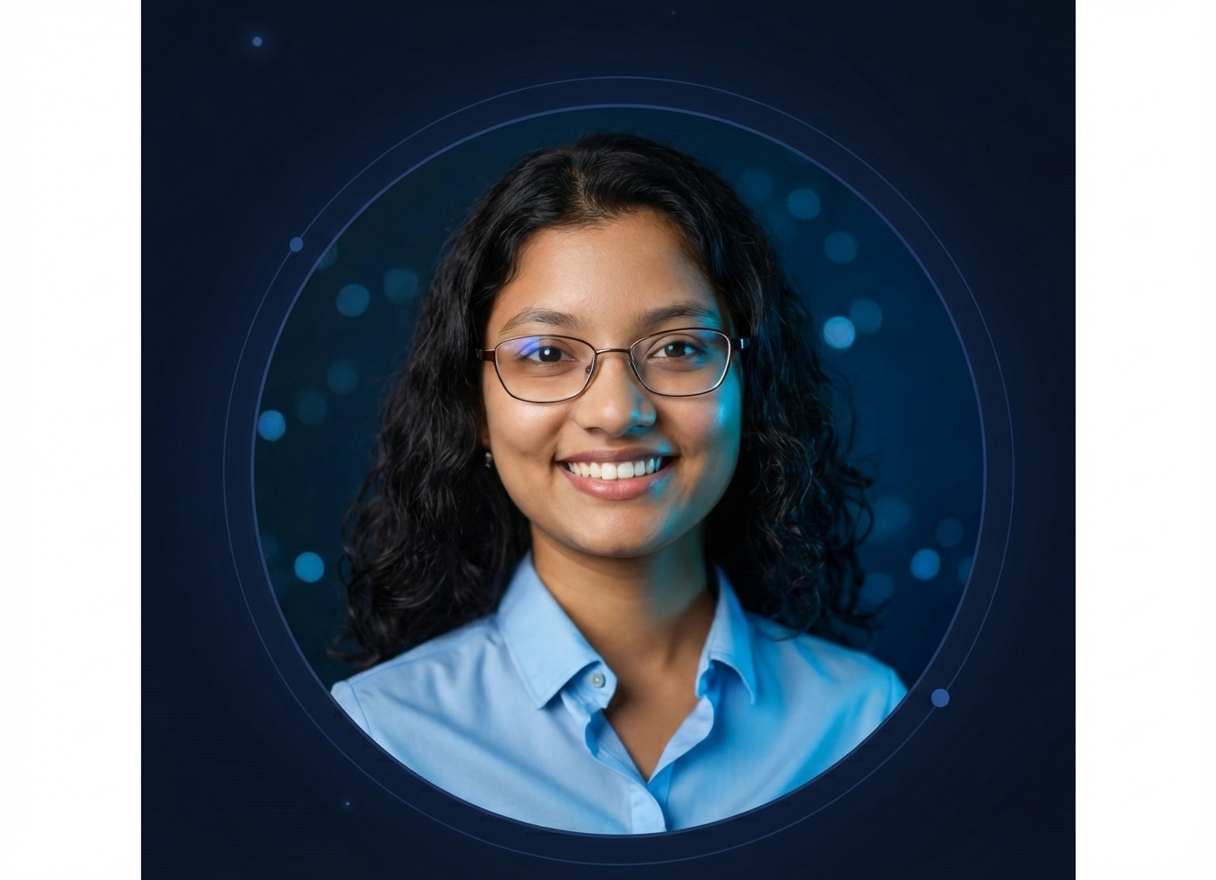
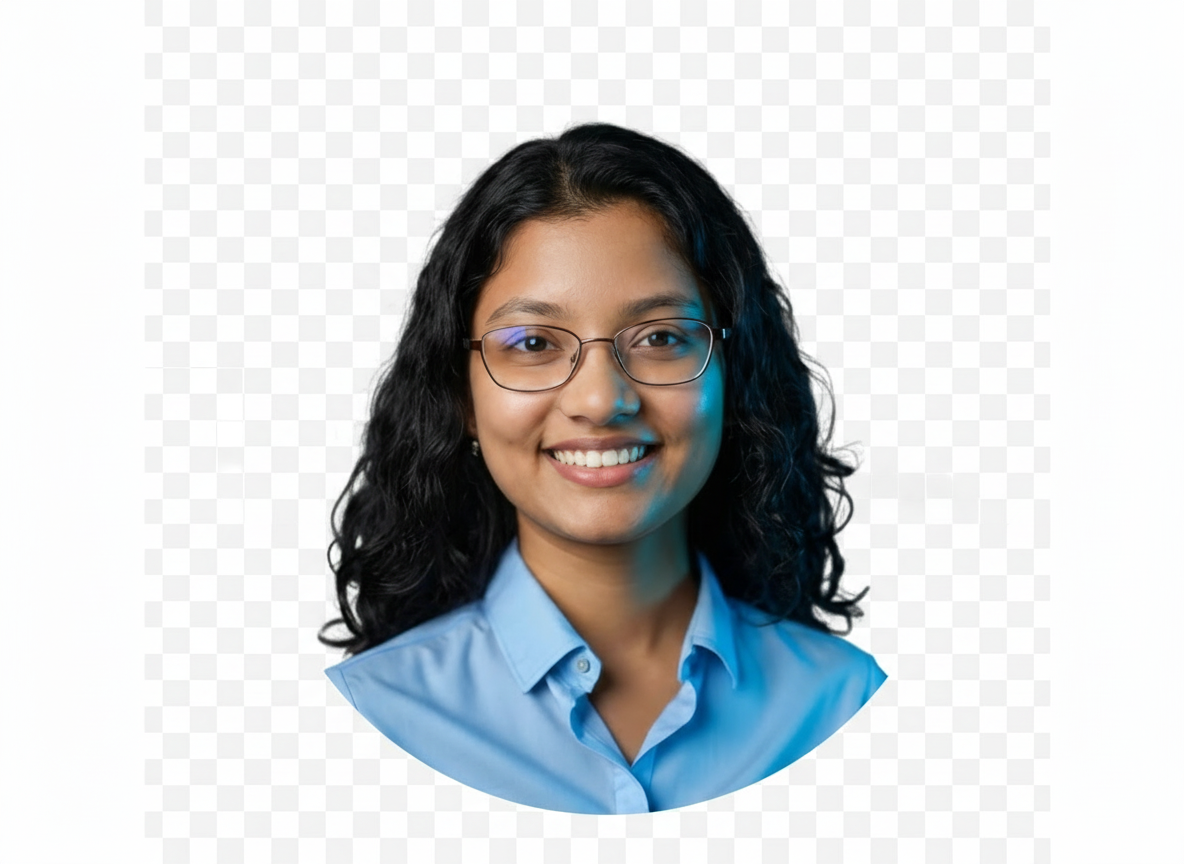
Changes

diff --git a/src/components/HeroSection.tsx b/src/components/HeroSection.tsx
@@ -290,6 +290,39 @@ const HeroSection = () => {
           transition={{ duration: 0.8, delay: 0.4 }}
         >
           <div className="relative w-64 h-64 md:w-80 md:h-80">
+            {/* Glowing bokeh dots */}
+            <motion.div
+              className="absolute w-8 h-8 rounded-full"
+              style={{ top: "10%", left: "5%", background: "radial-gradient(circle, hsla(200, 80%, 60%, 0.7) 0%, transparent 70%)", filter: "blur(4px)" }}
+              animate={{ opacity: [0.4, 0.9, 0.4], scale: [1, 1.3, 1] }}
+              transition={{ duration: 3, repeat: Infinity, ease: "easeInOut" }}
+            />
+            <motion.div
+              className="absolute w-12 h-12 rounded-full"
+              style={{ top: "55%", left: "-10%", background: "radial-gradient(circle, hsla(200, 80%, 55%, 0.6) 0%, transparent 70%)", filter: "blur(5px)" }}
+              animate={{ opacity: [0.3, 0.8, 0.3], scale: [1, 1.2, 1] }}
+              transition={{ duration: 4, repeat: Infinity, ease: "easeInOut", delay: 1 }}
+            />
+            <motion.div
+              className="absolute w-6 h-6 rounded-full"
+              style={{ top: "75%", right: "0%", background: "radial-gradient(circle, hsla(200, 80%, 65%, 0.8) 0%, transparent 70%)", filter: "blur(3px)" }}
+              animate={{ opacity: [0.5, 1, 0.5], scale: [1, 1.4, 1] }}
+              transition={{ duration: 2.5, repeat: Infinity, ease: "easeInOut", delay: 0.5 }}
+            />
+            <motion.div
+              className="absolute w-10 h-10 rounded-full"
+              style={{ top: "20%", right: "-5%", background: "radial-gradient(circle, hsla(200, 80%, 50%, 0.5) 0%, transparent 70%)", filter: "blur(6px)" }}
+              animate={{ opacity: [0.2, 0.7, 0.2], scale: [1, 1.25, 1] }}
+              transition={{ duration: 3.5, repeat: Infinity, ease: "easeInOut", delay: 2 }}
+            />
+            <motion.div
+              className="absolute w-5 h-5 rounded-full"
+              style={{ bottom: "5%", left: "30%", background: "radial-gradient(circle, hsla(200, 80%, 60%, 0.7) 0%, transparent 70%)", filter: "blur(3px)" }}
+              animate={{ opacity: [0.4, 0.9, 0.4], scale: [1, 1.3, 1] }}
+              transition={{ duration: 2.8, repeat: Infinity, ease: "easeInOut", delay: 1.5 }}
+            />
+
+            {/* Orbital rings */}
             <motion.div
               className="absolute -inset-3 rounded-full border border-secondary/20"
               animate={{ rotate: 360 }}
@@ -298,20 +331,27 @@ const HeroSection = () => {
               <div className="absolute top-0 left-1/2 -translate-x-1/2 -translate-y-1/2 w-2 h-2 rounded-full bg-secondary/60" />
               <div className="absolute bottom-0 left-1/2 -translate-x-1/2 translate-y-1/2 w-1.5 h-1.5 rounded-full bg-secondary/40" />
             </motion.div>
-            <div className="absolute inset-0 rounded-full blur-[50px] bg-secondary/15 animate-glow-pulse" />
+            {/* Background glow behind image */}
+            <div className="absolute inset-0 rounded-full blur-[50px] bg-secondary/20 animate-glow-pulse" />
+            {/* Dark circle backdrop for transparent image */}
+            <div
+              className="absolute inset-0 rounded-full z-[9]"
+              style={{
+                background: "radial-gradient(circle, hsl(217, 50%, 12%) 0%, hsl(220, 44%, 8%) 100%)",
+              }}
+            />
             <img
               src={profilePhoto}
               alt="Stuti Mohanty"
-              className="w-full h-full object-cover rounded-full relative z-10 shadow-2xl"
+              className="w-full h-full object-cover rounded-full relative z-10"
               style={{
-                border: "2px solid hsla(217, 91%, 60%, 0.25)",
-                boxShadow: "0 0 40px hsla(217, 91%, 60%, 0.1), inset 0 0 30px hsla(220, 44%, 8%, 0.5)",
+                filter: "drop-shadow(0 0 20px hsla(217, 91%, 60%, 0.15))",
               }}
             />
             <div
               className="absolute inset-0 rounded-full z-20 pointer-events-none"
               style={{
-                background: "linear-gradient(135deg, hsla(0, 0%, 100%, 0.06) 0%, transparent 50%)",
+                background: "linear-gradient(135deg, hsla(0, 0%, 100%, 0.04) 0%, transparent 50%)",
               }}
             />
           </div>
